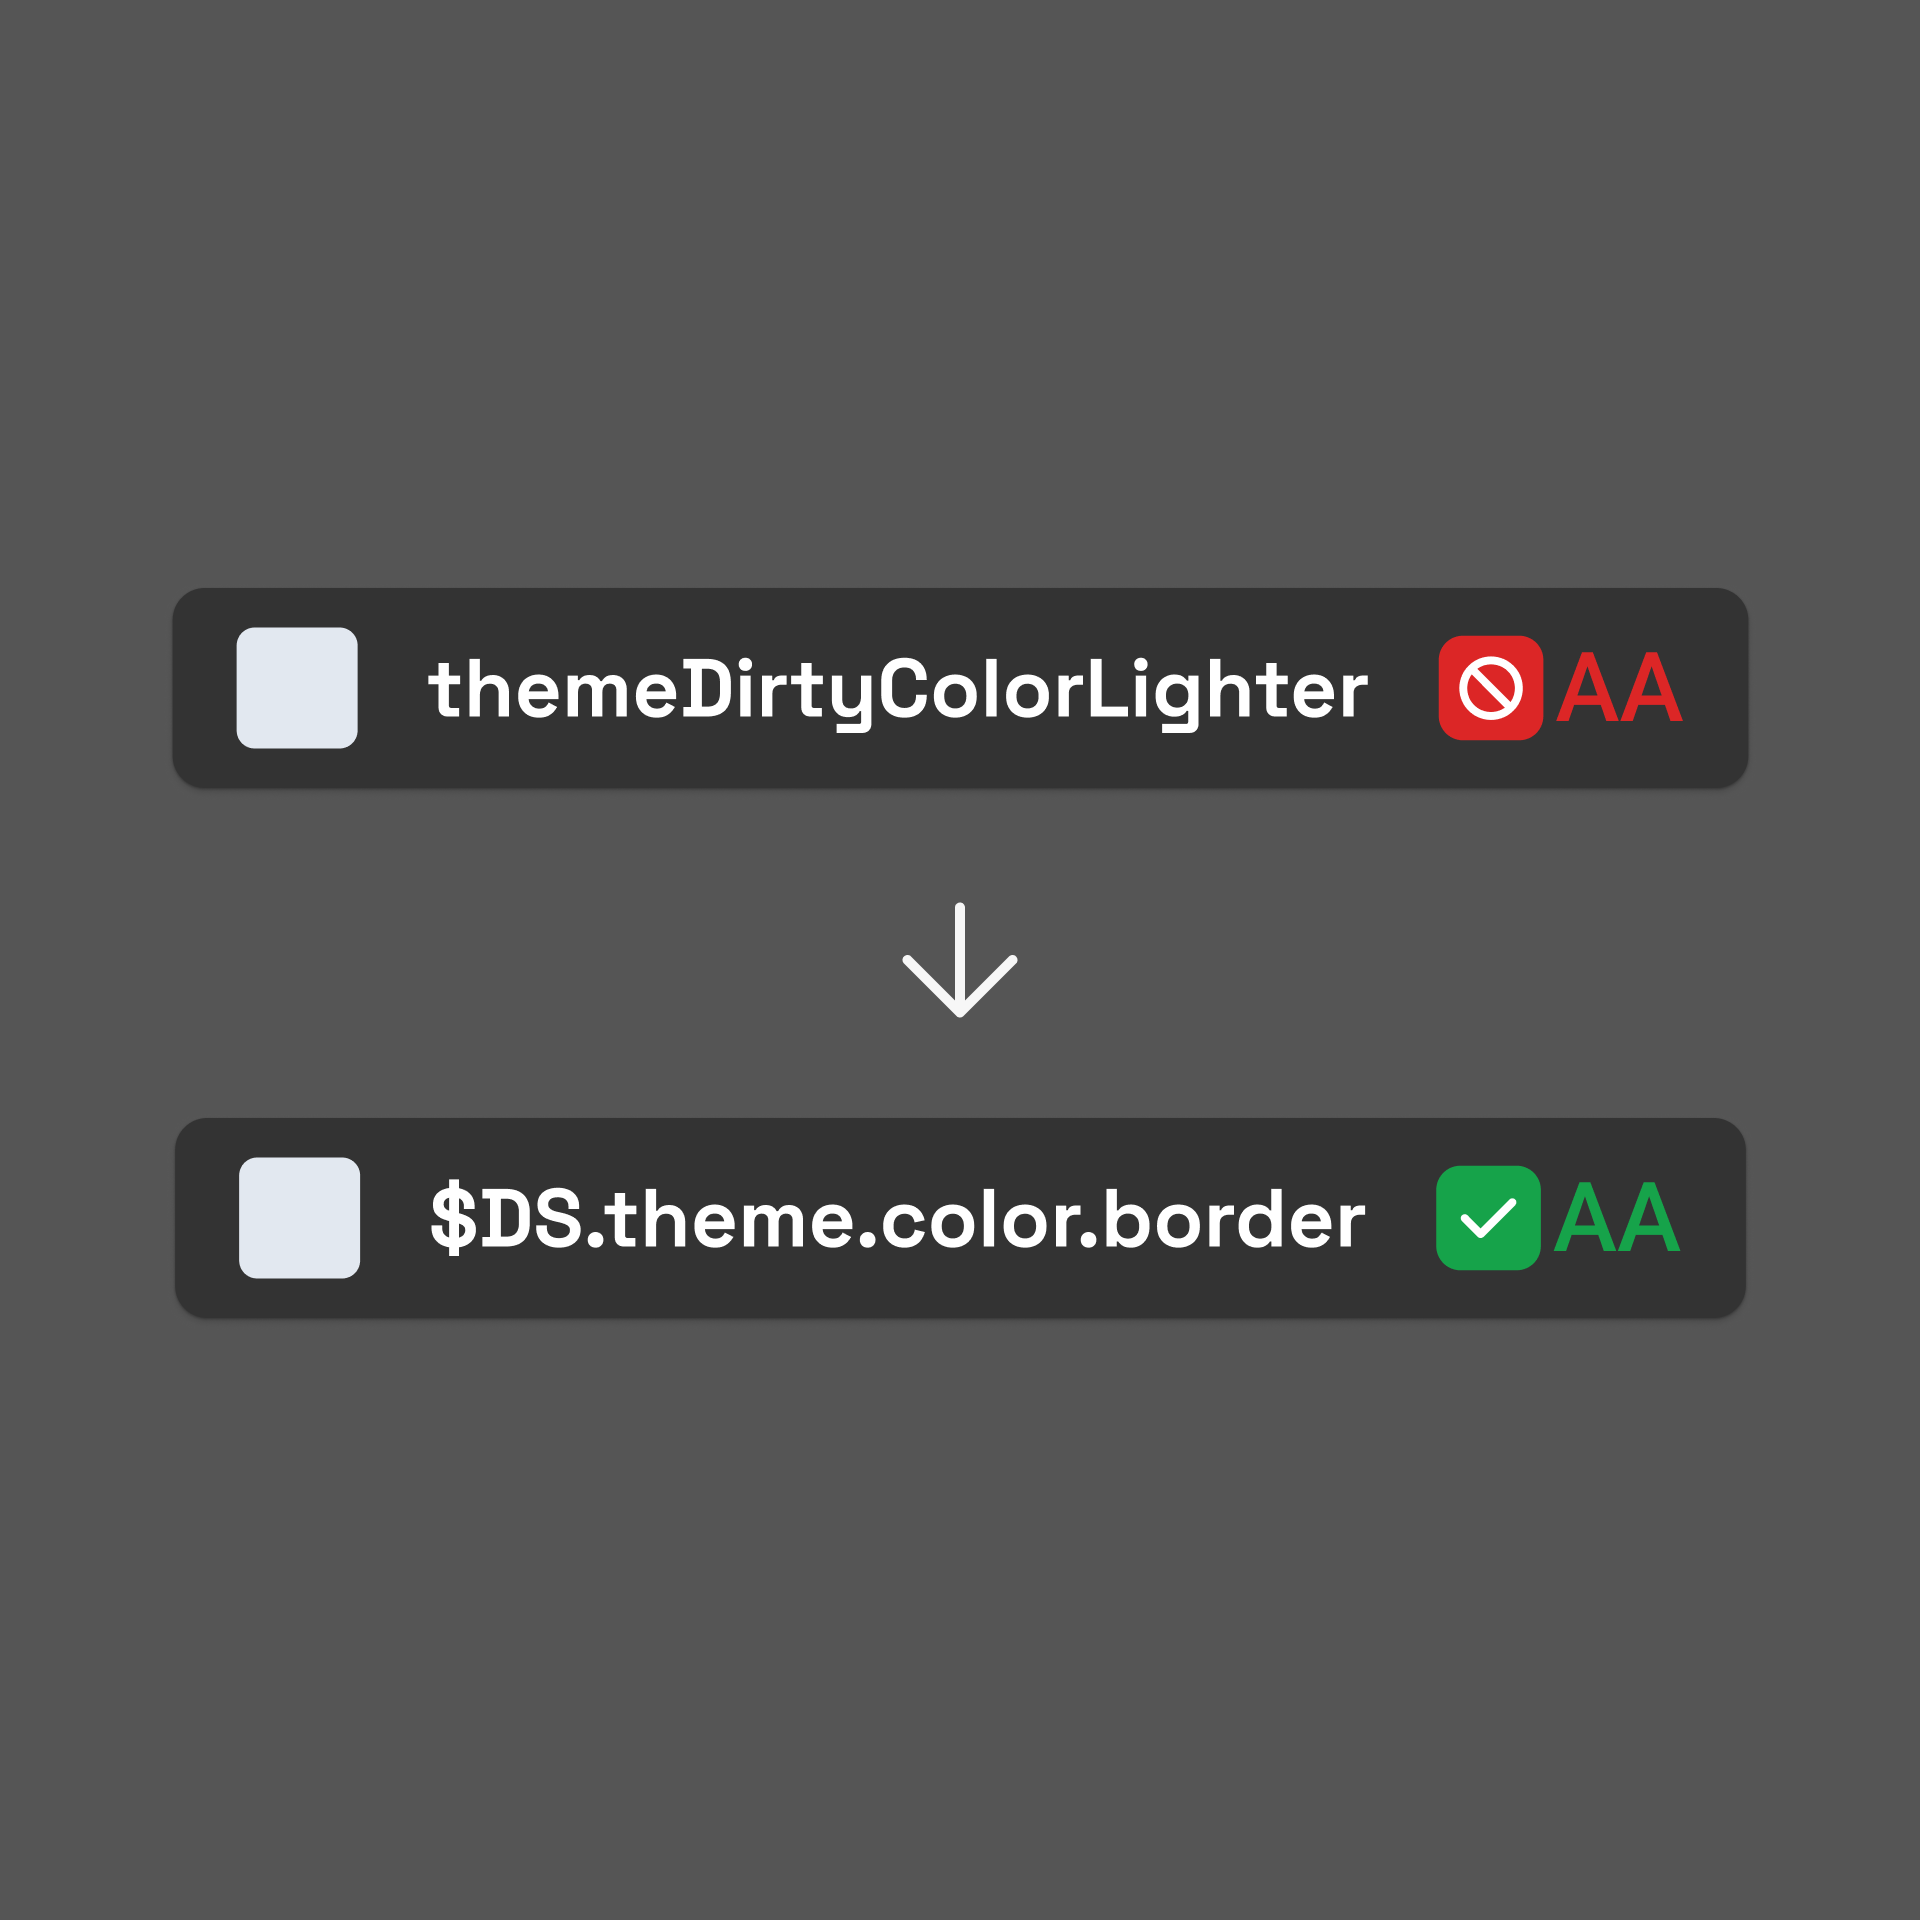
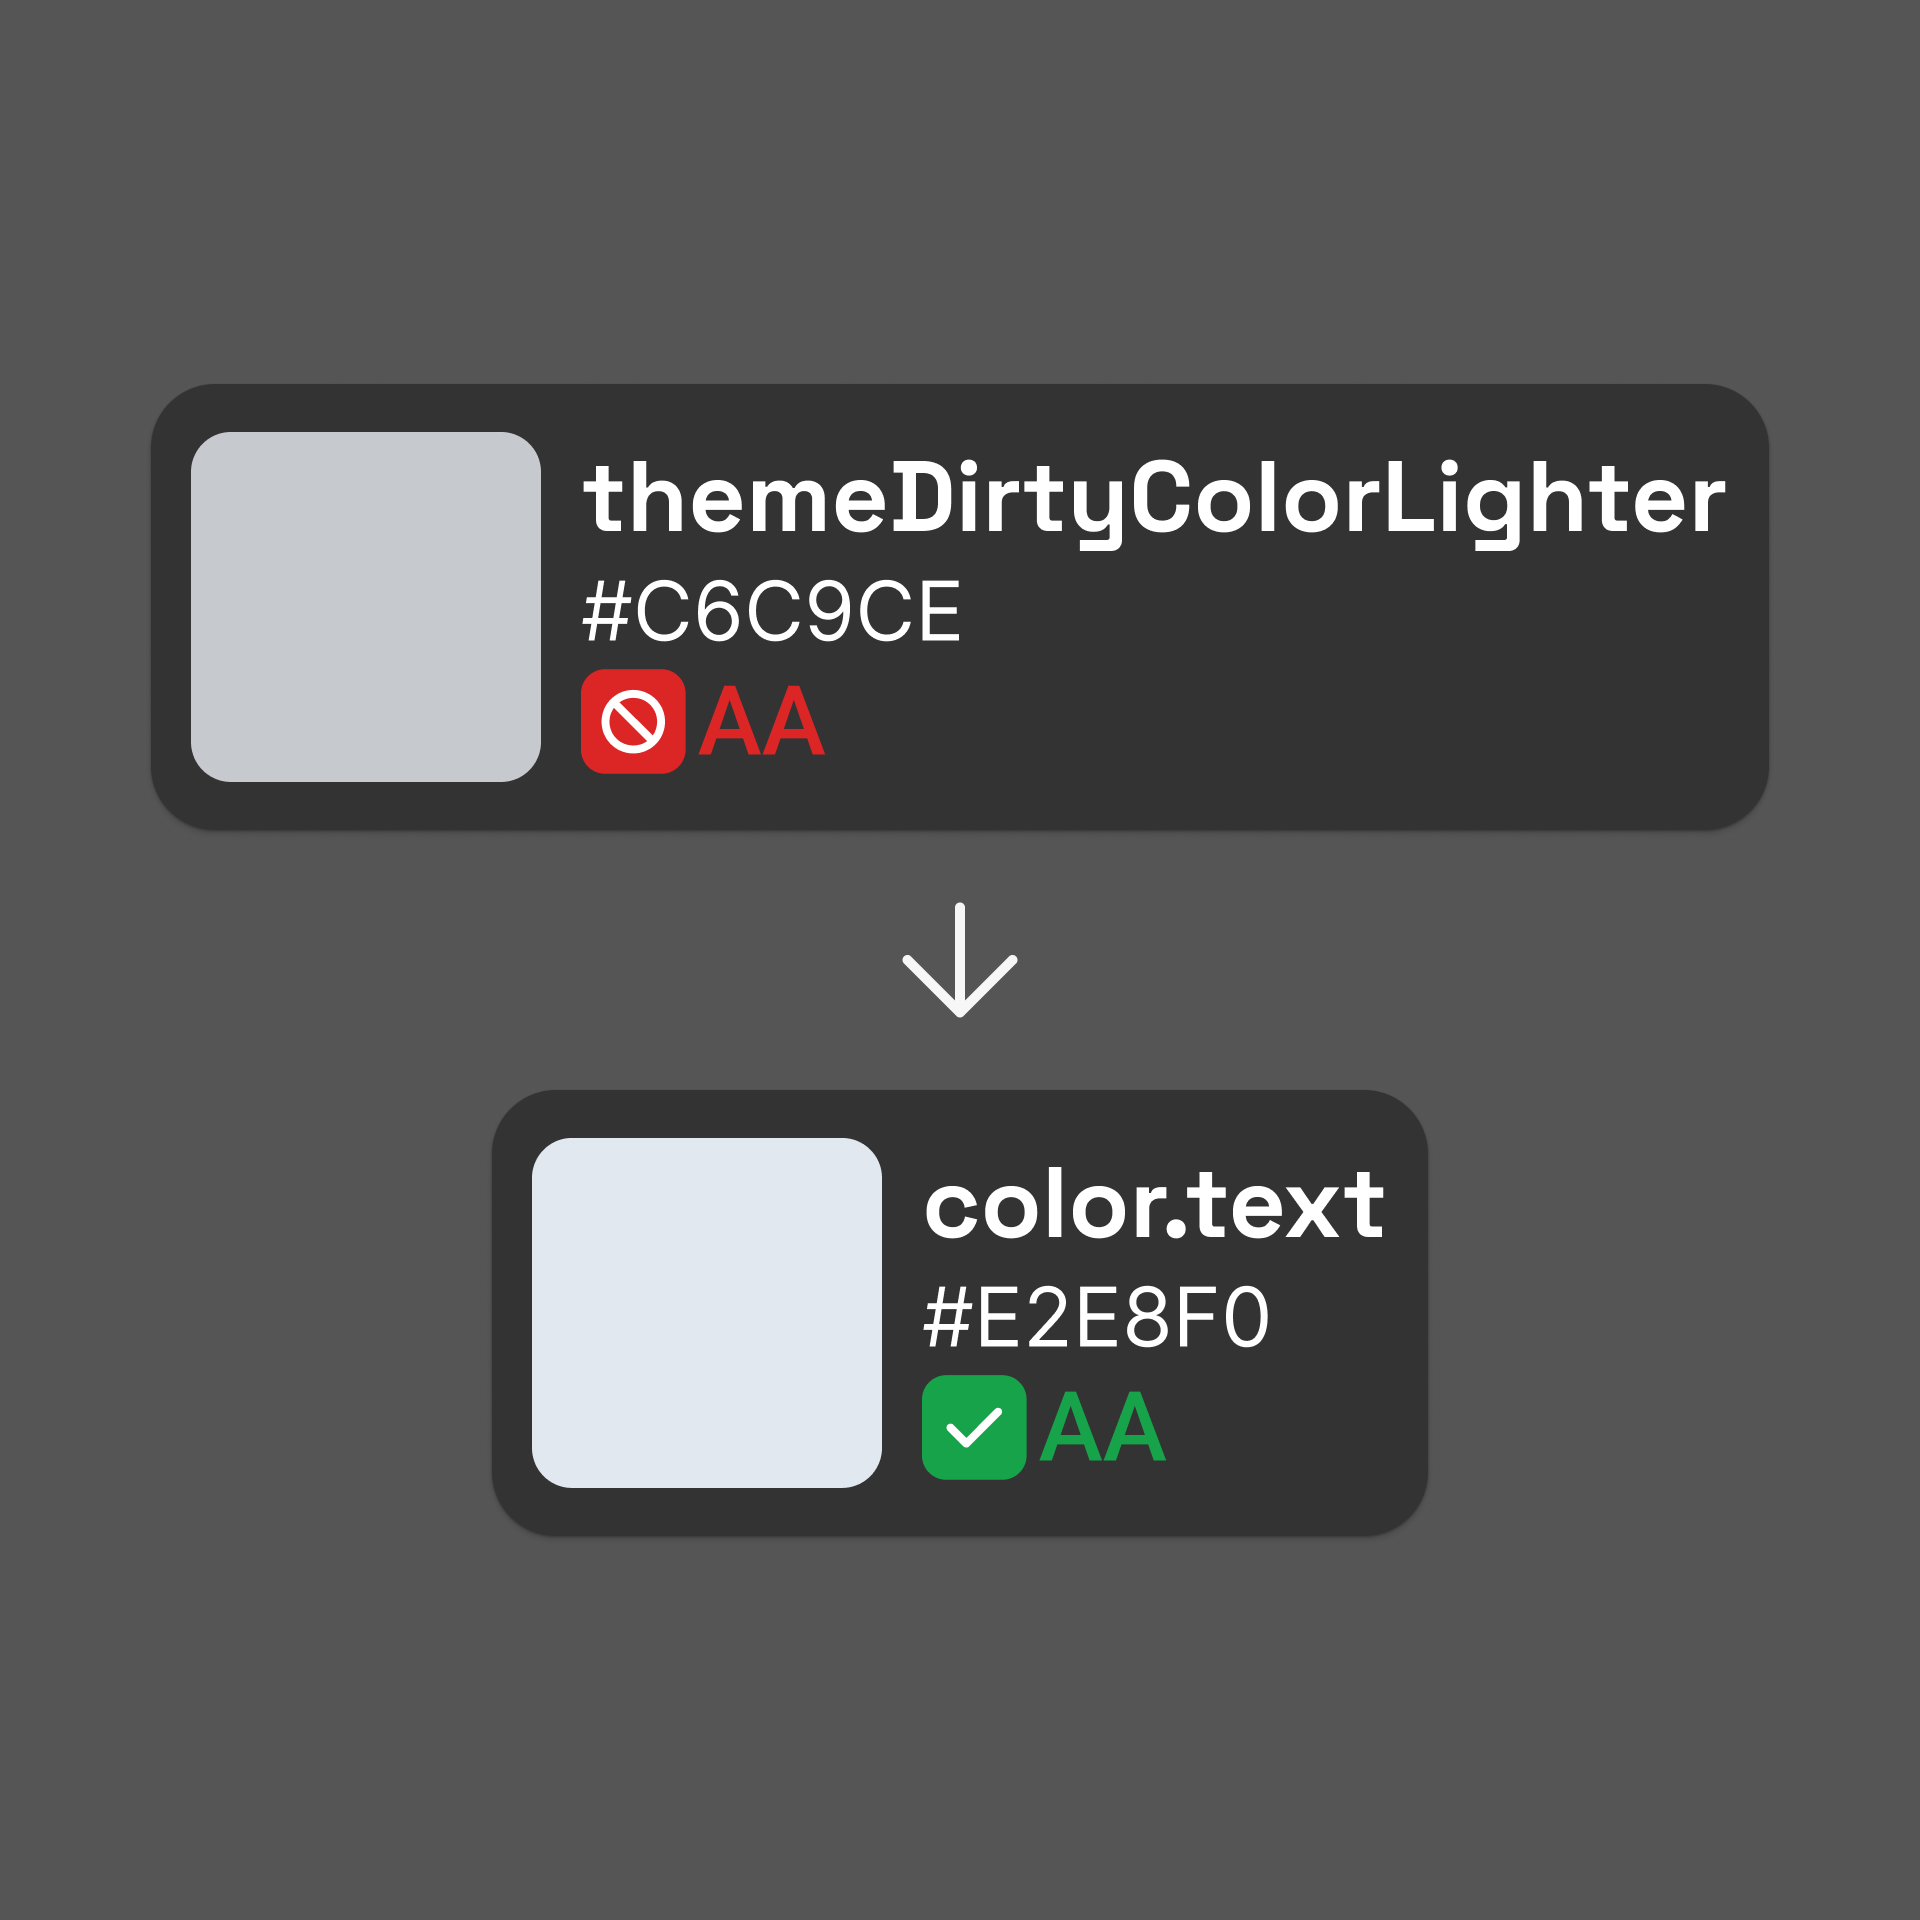
commit

Changed region(s): [[0.0625, 0.1875, 0.9375, 0.4375], [0.0938, 0.5625, 0.9062, 0.8125]]

diff --git a/index.html b/index.html
@@ -1056,11 +1056,12 @@ button:focus-visible {
     
 
     <section class=" hero justify-content-center"  id="hero">
+        <div class="hero-paragraph align-items-center">
+            <p style="color:#6b6b6b">I'm Leo Denega, a 5+ years strategic product designer based in Lisbon</p>
+        </div>
         
         <h1 class="hero-title" style="color: #1c1c1c95;">Making complex products <br><span class="hero-select"><span class="hero-rotating-phrase" style="color: #1c1c1c;" aria-live="polite">feel effortless.</span><span class="hero-select__handle hero-select__handle--tl" aria-hidden="true"></span><span class="hero-select__handle hero-select__handle--tr" aria-hidden="true"></span><span class="hero-select__handle hero-select__handle--bl" aria-hidden="true"></span><span class="hero-select__handle hero-select__handle--br" aria-hidden="true"></span><span class="hero-select__size" aria-hidden="true"></span><span class="hero-cursor" aria-hidden="true"><svg viewBox="0 0 16 20" width="20" height="25"><path d="M1 1 L1 16 L5.2 12.2 L8 18.6 L10.8 17.4 L8.1 11.2 L13.8 11.2 Z" /></svg><span class="hero-cursor__name flex-div align-items-center gap-8"><div style="width:32px; height:32px; "><img style="width:32px; height:32px; border-radius: 50%;" src="img/Profile.png"></div>Leo</span></span></span></h1>
-        <div class="hero-paragraph align-items-center">
-            <p style="color:#6b6b6b">I'm Leo Denega, a 5+ years strategic product designer with background in visual design & frontend development</p>
-        </div>
+        
     </section>
     
 
@@ -1187,7 +1188,7 @@ button:focus-visible {
                     </div>
                 </div>
             </a>
-            <a href="project-slt-assist.html" class="mil-blog-card  ">
+            <a href="project-EnergylineTRM.html" class="mil-blog-card  ">
                 <div class="mil-cover-frame">
                     <img  src="img/work/Energyline/EnergylineTRM-cover.png" alt="cover" ></img>
 

diff --git a/css/style.css b/css/style.css
@@ -1742,7 +1742,7 @@ blog
   top: 0px;
   left: 0px;
   justify-content: space-between;
-  height: 480px;
+  height: 100%;
   border-radius: 32px;
   padding: 20px;
   width: 100%;
